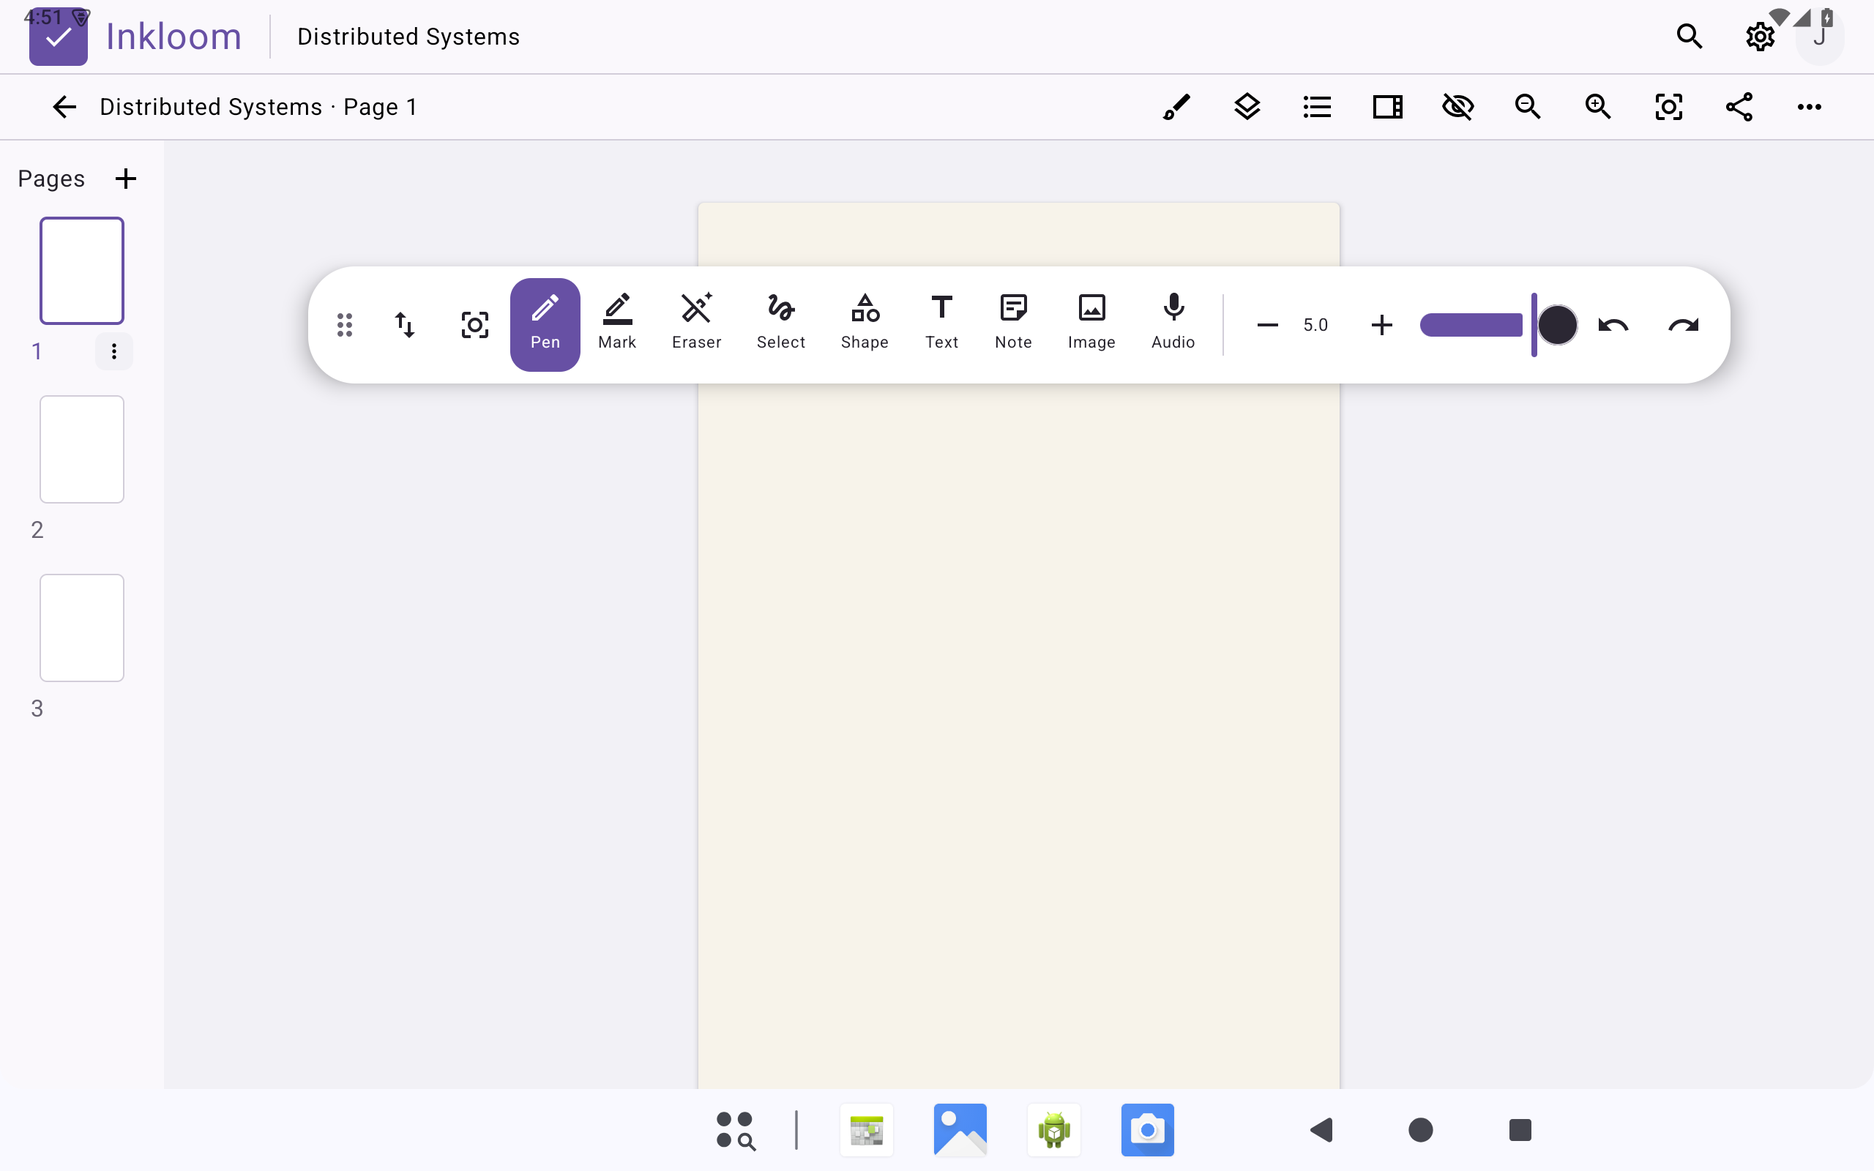
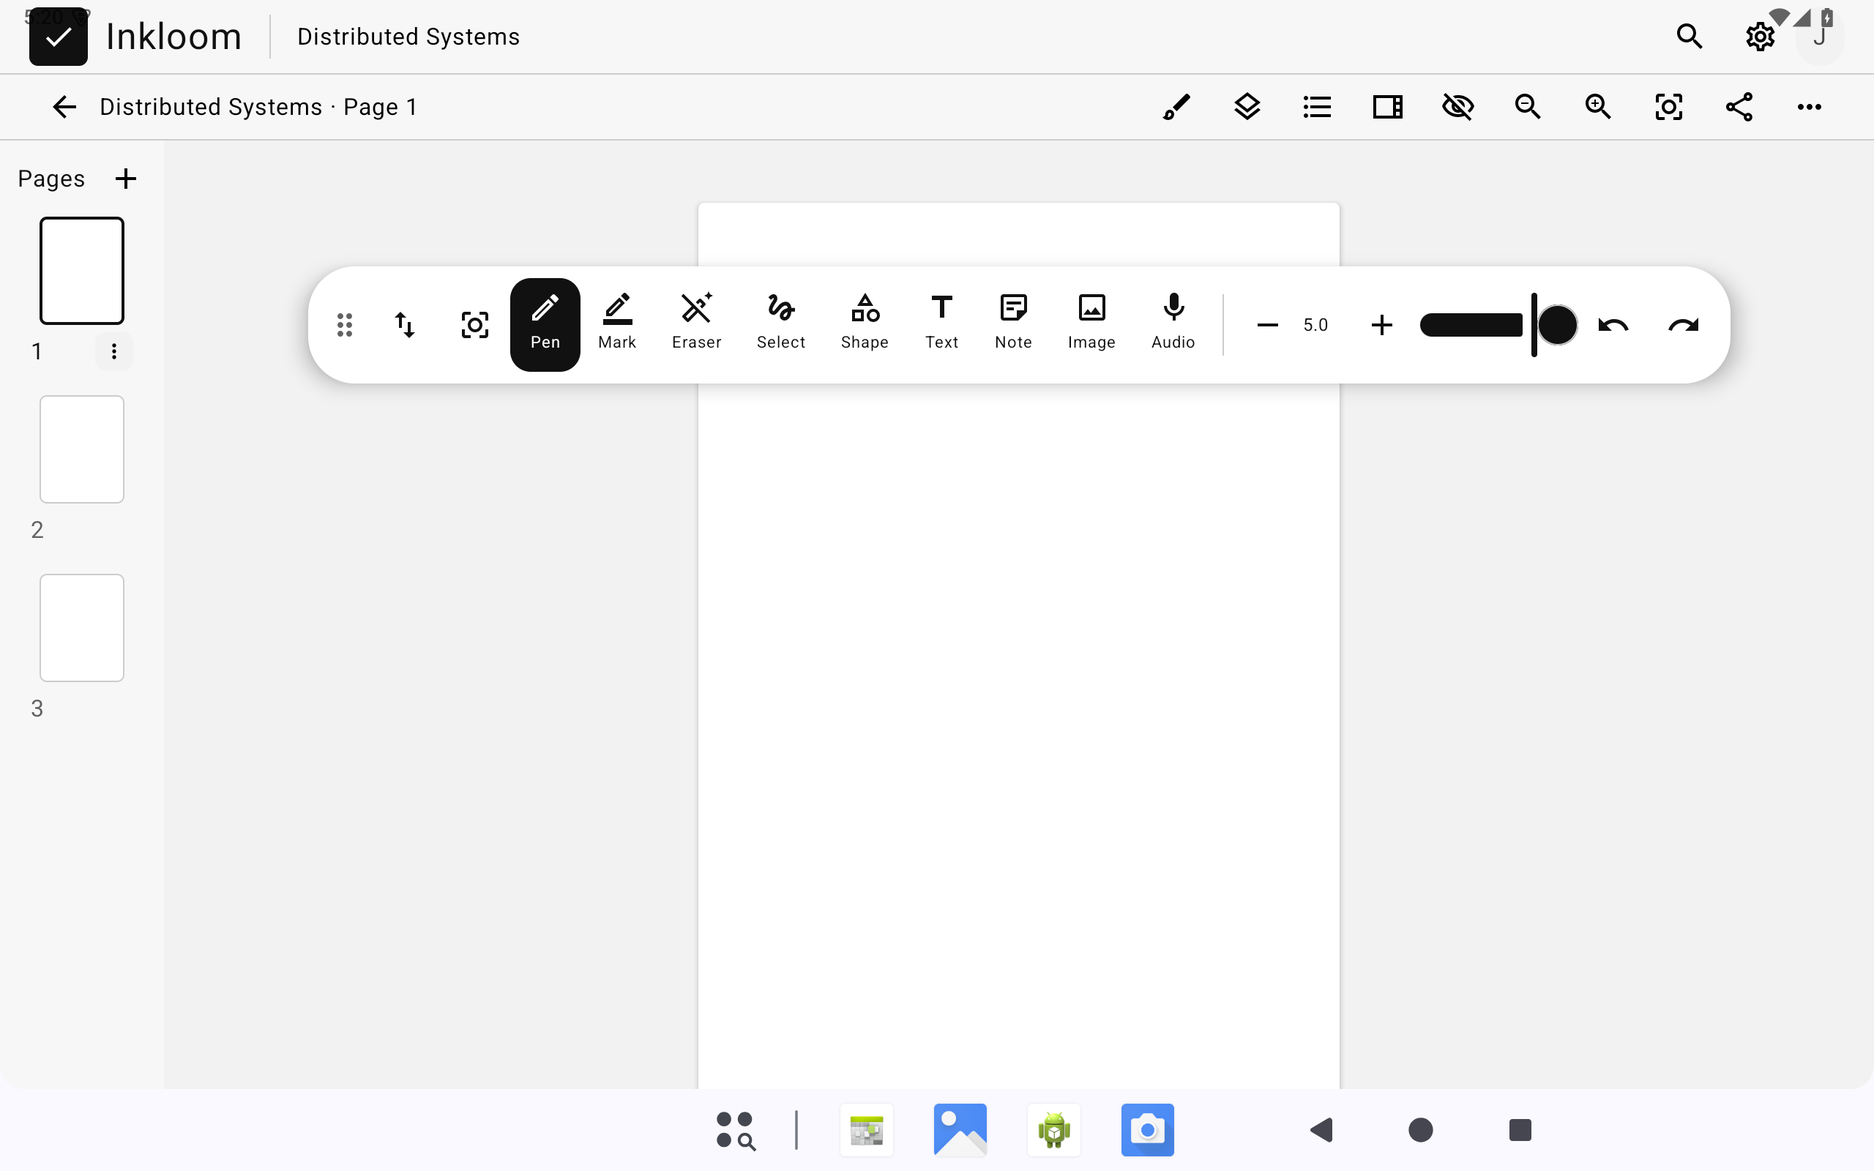
docs: record Android 15 monochrome validation

diff --git a/docs/COMPLETION_AUDIT.md b/docs/COMPLETION_AUDIT.md
@@ -20,6 +20,7 @@ Status meanings:
 | Movable/hideable toolbar | Verified | Drag, hide/show, persistent free position, reset, horizontal/vertical layout and top/bottom/left/right edge docking presets work. |
 | Page rail avoids menu mis-taps and can hide | Verified | Thumbnail navigation and menu buttons use separate hit regions; only the currently selected page exposes its menu button, so selecting another page cannot hit that page's menu. Visibility is persisted. |
 | Settings are reachable and persistent | Verified | Library and editor headers expose Settings on both compact and wide layouts. Input, pressure calibration, stabilization, independent basic-tool presets, pen-button actions, diagnostics, page-rail visibility and toolbar layout/docking are persisted locally. |
+| Black-and-white UI theme | Verified | App color roles, Material container elevations, launcher branding, notebook covers, editor chrome, panels, dialogs and selection feedback use black, white and neutral grays. Android 15 screenshots cover Library, Editor and Settings. User-selected drawing colors remain available for page content. |
 
 ## Notes, pages, and objects
 
@@ -37,11 +38,11 @@ Status meanings:
 
 | Requirement | Status | Evidence / remaining work |
 | --- | --- | --- |
-| Adjustable size, opacity, color, pressure, stabilization | Verified | Quick controls and Settings retain independent Pen, Marker and Eraser sizes plus separate Pen/Marker opacity instead of resetting them on every tool switch. Global pressure onset/full-point/sensitivity calibration has a response preview; imported brushes add per-brush size/opacity/flow/spacing/thickness pressure plus tilt/velocity/random source controls, velocity curves and immutable stroke snapshots. Color entry provides quick presets, HSV adjustment, and a persisted 32-color user palette shared by brushes, text and shapes. |
+| Adjustable size, opacity, color, pressure, stabilization | Verified | Quick controls and Settings retain independent Pen, Marker and Eraser sizes plus separate Pen/Marker opacity instead of resetting them on every tool switch. Global pressure onset/full-point/sensitivity calibration has a response preview; imported brushes add per-brush size/opacity/flow/spacing/thickness pressure plus tilt/velocity/random source controls, velocity curves, CSP per-brush stabilization/speed mode and immutable stroke snapshots. Color entry provides quick presets, HSV adjustment, and a persisted 32-color user palette shared by brushes, text and shapes. |
 | Compact brush library and tip previews | Partial | Compact rows, extracted SUT/ABR tip images, report, parameter editor, editable name/tags, source filters, search, favorites, recent ordering, hide and library removal exist. Multi-brush ABR files expand into independent rows instead of being misread as one multi-tip stroke. Groups, version history and internal-format export remain. |
-| SUT parser | Partial | Audited against 12 authorized real samples. Reads SQLite `Node`/`Variant`, maps core parameters/default opacity, decodes pressure/tilt/velocity/random source flags and independent minima for size/opacity/flow/spacing/thickness, retains pressure/velocity curves without enabling disabled sources, maps verified angle modes, resolves ordered main/secondary tip and separate paper `MaterialFile` references, Ribbon/repeat methods, thickness direction, distance/percentage/fade Starting and ending modes plus their target-list records, Watercolor edge radius/unit/opacity/darkness/blur, independent Dual Brush size/spacing/flow/hardness/thickness/rotation/Ribbon/repeat fields, main/secondary spray particle size/unit/link/density/bias, and paper-texture density/scale/rotation/brightness/contrast/invert/emphasis. Output is versioned, source retained and coverage reported. Combined angle-source strengths, pen-barrel twist, old-C2F Offscreen raster decoding, unknown Dual Brush composite-mode formulas and CSP wet-pigment parity remain. |
+| SUT parser | Partial | Audited against 12 authorized real samples. Reads SQLite `Node`/`Variant`, maps pixel/millimetre physical size, core parameters/default opacity, CSP stabilization and speed-response mode, decodes pressure/tilt/velocity/random source flags and independent minima for size/opacity/flow/spacing/thickness, retains pressure/velocity curves without enabling disabled sources, maps verified angle modes, resolves ordered main/secondary tip and separate paper `MaterialFile` references, Ribbon/repeat methods, thickness direction, distance/percentage/fade Starting and ending modes plus their target-list records, Watercolor edge radius/unit/opacity/darkness/blur, independent Dual Brush size/spacing/flow/hardness/thickness/rotation/Ribbon/repeat fields, main/secondary spray particle size/unit/link/density/bias, and paper-texture density/scale/rotation/brightness/contrast/invert/emphasis. Output is versioned, source retained and coverage reported. Combined angle-source strengths, pen-barrel twist, old-C2F Offscreen raster decoding, unknown Dual Brush composite-mode formulas and CSP wet-pigment parity remain. |
 | ABR and Procreate parser | Partial | ABR 6.1/6.2 sampled-tip sections are bounds checked and decoded from raw or PackBits/RLE grayscale. Both authorized ABR fixtures pass decoding (11 and 13 tips), masks are exported in Inkloom's expected orientation, and each tip becomes an independent persisted brush. ABR dynamics/proprietary paint behavior, other ABR generations and real Procreate shape/grain/dynamics extraction remain. |
-| Drawing engine | Partial | Shared input evaluation applies imported pressure/tilt/velocity/random dynamics to size/opacity/flow/spacing/thickness, physical-path-distance start/end taper and a radius/opacity/darkness/blur Watercolor edge pass for both line and stamp brushes in display/export. Each point snapshots smoothed physical input velocity; distance-based resampling interpolates pressure/time/tilt/orientation/velocity independently of MotionEvent density; deterministic random evaluation keeps export stable. Imported masks preserve source aspect ratio, horizontal/vertical thickness direction, ordered multi-tip selection and Ribbon tangent alignment/continuous placement. Paper grain tiles with retained scale/rotation/tone/invert/emphasis settings. The real Dual Brush secondary tip has a separate parameterized stamp stream, while spray uses separate brush area/particle size, density and center bias with screen/export parity. Unknown CSP composite modes currently fall back to source-over and wet-color mixing remains approximate. Tile/GPU rendering, prediction, true wet mix and renderer golden images remain. |
+| Drawing engine | Partial | Shared input evaluation applies imported pressure/tilt/velocity/random dynamics to size/opacity/flow/spacing/thickness, physical-path-distance start/end taper and a radius/opacity/darkness/blur Watercolor edge pass for both line and stamp brushes in display/export. Each point snapshots smoothed physical input velocity; distance-based resampling interpolates pressure/time/tilt/orientation/velocity independently of MotionEvent density; deterministic random evaluation keeps export stable. Imported masks preserve source aspect ratio, horizontal/vertical thickness direction, ordered multi-tip selection and Ribbon tangent alignment/continuous placement. Paper grain tiles with retained scale/rotation/tone/invert/emphasis settings; alpha-only density in black-RGB CSP thumbnails is preserved by the one decoder shared between canvas and export. The real Dual Brush secondary tip has a separate parameterized stamp stream, while spray uses separate brush area/particle size, density and center bias with screen/export parity. Unknown CSP composite modes currently fall back to source-over and wet-color mixing remains approximate. Tile/GPU rendering, prediction, true wet mix and full-page renderer golden images remain. |
 
 ## PDF, export, data, and quality
 
@@ -50,7 +51,7 @@ Status meanings:
 | PDF/image import and non-destructive overlay | Verified | Original assets retained; page geometry and ink stored separately. Password PDFs, outline/text index and OCR remain. |
 | Flattened PDF, page PNG, editable package export | Verified | Export paths render visible layers and include retained assets/sources. Standard PDF annotations and JPEG/SVG/selection export remain. |
 | Backup/sync/privacy/storage settings | Partial | Offline operation, SAF and local storage exist. Editable bundles now rewrite absolute asset/tip paths to portable archive paths and can be safely re-imported with traversal/entry-count/expanded-size validation. Scheduled backup, encryption, WebDAV/cloud sync and storage management UI remain. |
-| Automated quality | Partial | 87 JVM tests pass without failures/skips, including persistence/recovery, input classification and calibration, viewport math, brush dynamics, SUT/real-ABR decoding, page geometry and event-density-independent stamp sampling. The deterministic 5,000-stroke sampling regression completes in 93 ms on the current Mac host. Android Lint and both APK assemblies pass. Three instrumentation tests pass on the Android 15 ARM64 tablet AVD, including Android bitmap verification of ABR mask orientation, followed by install, cold-start, process/log and visual smoke checks. Completed ink uses a size-aware raster cache; selection/lasso drawing also avoids per-frame collection/path allocations. Gesture injection, full renderer golden images, full-page 5,000-stroke render/latency measurement, large-PDF stress and the physical-device matrix remain. |
+| Automated quality | Partial | 91 JVM tests pass without failures/skips, including persistence/recovery, input classification and calibration, viewport math, brush dynamics, SUT/real-ABR decoding, page geometry and event-density-independent stamp sampling. The deterministic 5,000-stroke sampling regression completes in 63 ms on the current Mac host. Android Lint and both APK assemblies pass. Four instrumentation tests pass on the Android 15 ARM64 tablet AVD, including Android bitmap verification of ABR mask orientation and alpha-aware CSP texture decoding, followed by install, cold-start, process and monochrome visual smoke checks. Completed ink uses a size-aware raster cache; selection/lasso drawing also avoids per-frame collection/path allocations. Gesture injection, full-page renderer golden images, full-page 5,000-stroke render/latency measurement, large-PDF stress and the physical-device matrix remain. |
 
 ## Next implementation gates
 

diff --git a/README.md b/README.md
@@ -4,7 +4,7 @@ Inkloom is an offline-first Android handwritten notebook and PDF annotation appl
 
 ## Implemented
 
-- Adaptive lavender/charcoal library and editor UI, compact phone navigation, hideable page rail, draggable/hideable tool dock with persistent free position, horizontal/vertical layouts and top/bottom/left/right docking presets, and compact brush inspector with real tip previews.
+- Adaptive monochrome library and editor UI, compact phone navigation, hideable page rail, draggable/hideable tool dock with persistent free position, horizontal/vertical layouts and top/bottom/left/right docking presets, and compact brush inspector with real tip previews.
 - Durable local documents, nested folders, favorites, tags, archive, trash, duplication, page CRUD/reordering/templates/bookmarks/custom numbering, 0–3 level collapsible page outlines, cross-notebook page move/copy, atomic snapshots, and append-only crash-recovery journal.
 - Search across note/page titles, custom page numbers, tags, text boxes, and sticky notes from the library or current note.
 - Persistent Background/Notes/Highlights/Objects/custom layers with active-layer writing, visibility, locking, rename, reorder, and safe custom-layer removal; locked strokes are protected from erase, selection, undo, and clear-page operations.
@@ -17,9 +17,9 @@ Inkloom is an offline-first Android handwritten notebook and PDF annotation appl
 - Non-destructive PDF and image import with ink overlays; flattened PDF, page PNG, and portable editable ZIP package export/import. Bundle restore validates paths, entry count, and expanded size before retaining assets.
 - Storage Access Framework brush import with content-signature probing, 256 MB safety limit, SHA-256 deduplication, original-source retention, compatibility grades, and persistent conversion reports.
 - ABR 6.1/6.2 import decodes bounded raw or PackBits/RLE grayscale sampled tips. A multi-brush ABR becomes separate library entries with correctly inverted Inkloom masks instead of cycling unrelated tips through one stroke; the two authorized real files yield 11 and 13 extracted previews. ABR dynamics and proprietary Photoshop paint behavior remain on editable Inkloom defaults.
-- SUT import reads the CSP SQLite preset, maps size/opacity/flow/spacing/hardness/thickness/rotation and feature flags, resolves ordered main/secondary tip and paper-texture materials, decodes pressure/tilt/velocity/random source bits and their independent minima, retains pressure and velocity response curves, and maps verified fixed/direction-of-pen/direction-of-line tip-angle modes. CSP Starting and ending is decoded as distance, percentage or fade mode with its target list, independent start/end ranges, units and minimum sizes; retained but unchecked targets remain disabled. CSP Watercolor edge radius/unit, opacity, darkness and blur are mapped into a separate edge pass. Dual Brush uses its real referenced secondary tip as an independent deterministic stream with its own size, spacing, flow, hardness, thickness, rotation, Ribbon, spray and repeat settings. Main and secondary spraying retain independent particle size/unit, brush-size linking, density and center bias. Paper texture retains density, scale, rotation, brightness, contrast, inversion and density emphasis and is tiled rather than stretched once across the tip. Disabled CSP sources stay disabled even when the file retains old curves. Curves, taper, watercolor edge, spray, dual and texture settings are immutable stroke snapshots. Imported tips retain their native aspect ratio and thickness axis; CSP repeat methods and Ribbon strokes use deterministic tip selection, tangent alignment, and continuous distance placement. Pressure/time/tilt/orientation/velocity are interpolated independently of Android event frequency, and screen/export share the same path. Pen-barrel twist, old-C2F Offscreen decoding, wet pigment mixing and unverified CSP Dual Brush composite-mode formulas remain compatibility limitations rather than pixel-identical CSP simulation.
+- SUT import reads the CSP SQLite preset, maps px/mm physical brush size, opacity/flow/spacing/hardness/thickness/rotation and feature flags, resolves ordered main/secondary tip and paper-texture materials, decodes pressure/tilt/velocity/random source bits and their independent minima, retains pressure and velocity response curves, maps CSP stabilization plus its speed-response mode, and maps verified fixed/direction-of-pen/direction-of-line tip-angle modes. CSP Starting and ending is decoded as distance, percentage or fade mode with its target list, independent start/end ranges, units and minimum sizes; retained but unchecked targets remain disabled. CSP Watercolor edge radius/unit, opacity, darkness and blur are mapped into a separate edge pass. Dual Brush uses its real referenced secondary tip as an independent deterministic stream with its own size, spacing, flow, hardness, thickness, rotation, Ribbon, spray and repeat settings. Main and secondary spraying retain independent particle size/unit, brush-size linking, density and center bias. Paper texture retains density, scale, rotation, brightness, contrast, inversion and density emphasis and is tiled rather than stretched once across the tip. Alpha-only density in CSP black-RGB material thumbnails is preserved, and live drawing/export use one shared decoder. Disabled CSP sources stay disabled even when the file retains old curves. Curves, taper, watercolor edge, spray, dual and texture settings are immutable stroke snapshots. Imported tips retain their native aspect ratio and thickness axis; CSP repeat methods and Ribbon strokes use deterministic tip selection, tangent alignment, and continuous distance placement. Pressure/time/tilt/orientation/velocity are interpolated independently of Android event frequency, and screen/export share the same path. Pen-barrel twist, old-C2F Offscreen decoding, wet pigment mixing and unverified CSP Dual Brush composite-mode formulas remain compatibility limitations rather than pixel-identical CSP simulation.
 - Android share/open entry points for PDF, image, and brush files; no broad storage permission or network dependency.
-- JVM tests for persistence/recovery, format signatures, safety limits, deterministic brush behavior, a 5,000-stroke sampling regression, and the authorized ABR/SUT sample folder.
+- 91 JVM tests for persistence/recovery, format signatures, safety limits, deterministic brush behavior, a 5,000-stroke sampling regression, and the authorized ABR/SUT sample folder, plus four Android 15 instrumentation tests.
 
 The feature comparison and implementation priorities are recorded in [`docs/FEATURE_RESEARCH.md`](docs/FEATURE_RESEARCH.md).
 The requirement-by-requirement status and remaining gates are recorded in [`docs/COMPLETION_AUDIT.md`](docs/COMPLETION_AUDIT.md).

diff --git a/docs/SUT_SAMPLE_AUDIT.md b/docs/SUT_SAMPLE_AUDIT.md
@@ -43,6 +43,13 @@ The previous parser would have incorrectly enabled pressure for those 14 retaine
 - Source tips range from `33×300` to `300×300`. The previous renderer normalized every tip to a square, destroying long and flat brush shapes. Version 0.8.0 scales by the source's longest dimension, preserves its aspect ratio, and applies CSP's horizontal/vertical thickness direction on the correct axis.
 - Parser version 12 retains paper-texture density, scale, rotation, brightness, contrast, inversion and density emphasis. For example, `Painting brush.sut` stores 153% scale, `-59` brightness and `-14` contrast; the previous stretched mask ignored all three. Display/export now share a tiled, transformed texture sampler while still clearly reporting the separate old-C2F full-resolution limitation below.
 
+## Physical size, stabilization, and alpha-texture audit
+
+- `BrushSizeUnit=2` presets are physical millimetre brushes. Parser version 13 converts those values to Inkloom's reference-pixel model instead of treating millimetres as raw pixels; pixel-unit presets are retained directly.
+- CSP `FlickerReduction`, `FlickerReductionBySpeed`, and `FlickerReductionBySpeedType` are retained as per-brush stabilization, speed adjustment, and the corresponding slow/fast response mode. They combine with the user's global stabilizer without discarding the imported preset's intent.
+- Several real material thumbnails store useful density as alpha over black RGB. For example, the audited `Painting brush.sut` grain has black RGB with non-uniform alpha. RGB-only sampling collapsed it to a solid mask. Parser/renderer version 13 composites that alpha into effective luminance, and the live canvas and PNG/PDF path now use one shared decoder.
+- Pure JVM texture tests and an Android bitmap instrumentation test cover the alpha-only mask case.
+
 ## C2F material container findings
 
 - Each audited `material_0.layer` uses the old `89 C2F` container, not the modern `CSFCHUNK` `.clip` container.

diff --git a/docs/ANDROID15_SMOKE_TEST.md b/docs/ANDROID15_SMOKE_TEST.md
@@ -3,11 +3,12 @@
 Tested on 2026-08-02 with the project-local `inkloom_api35_tablet` AVD:
 
 - Android API 35 / Android 15, ARM64, 2560×1600 Pixel Tablet profile.
-- Inkloom `0.28.0` (`versionCode 29`, `targetSdk 35`).
-- Three instrumentation tests passed: library launch, Settings/input-controls access, and Android bitmap verification of extracted ABR mask orientation.
+- Inkloom `0.29.0` (`versionCode 30`, `targetSdk 35`).
+- Four instrumentation tests passed: library launch, Settings/input-controls access, Android bitmap verification of extracted ABR mask orientation, and alpha-aware CSP texture-mask decoding.
 - Cold launch reported `Status: ok` and the Inkloom process remained alive.
 - App-scoped log inspection found no fatal exception, Android runtime crash, or ANR.
-- The final 87 JVM tests passed with zero failures, errors, or skips; Android Lint and debug/debug-test APK assembly also passed. This includes both authorized real ABR files and a 5,000-stroke deterministic sampling regression (93 ms on the build host).
+- The final 91 JVM tests passed with zero failures, errors, or skips; Android Lint and debug/debug-test APK assembly also passed. This includes both authorized real ABR files and a 5,000-stroke deterministic sampling regression (63 ms on the build host).
+- The Library, Editor, Brush Library and both Settings sections were visually inspected at 2560×1600 after installation. App chrome and Material container surfaces are monochrome; drawing-color swatches remain intentionally available as content colors.
 
 Visual evidence:
 
